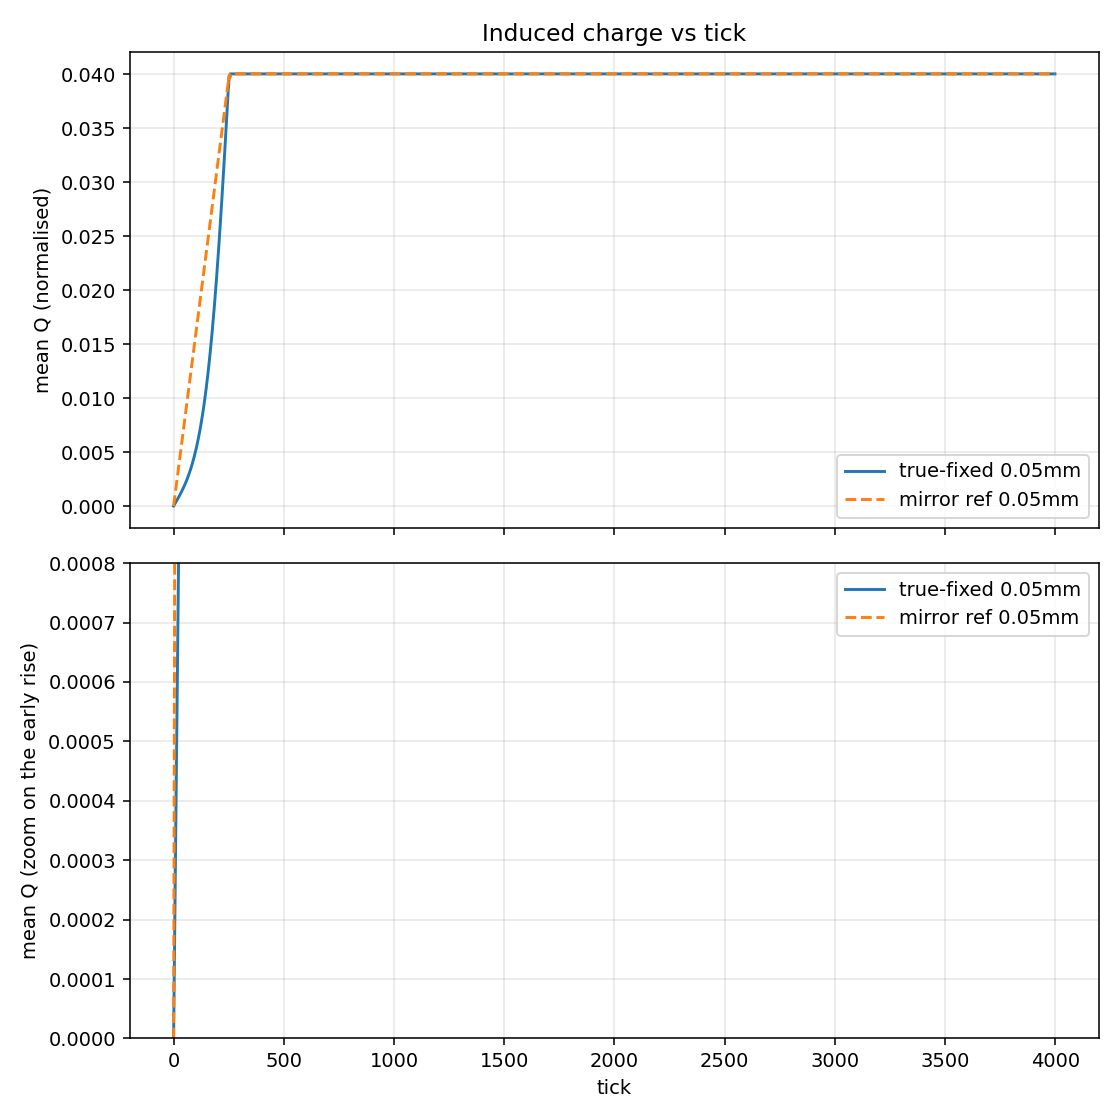
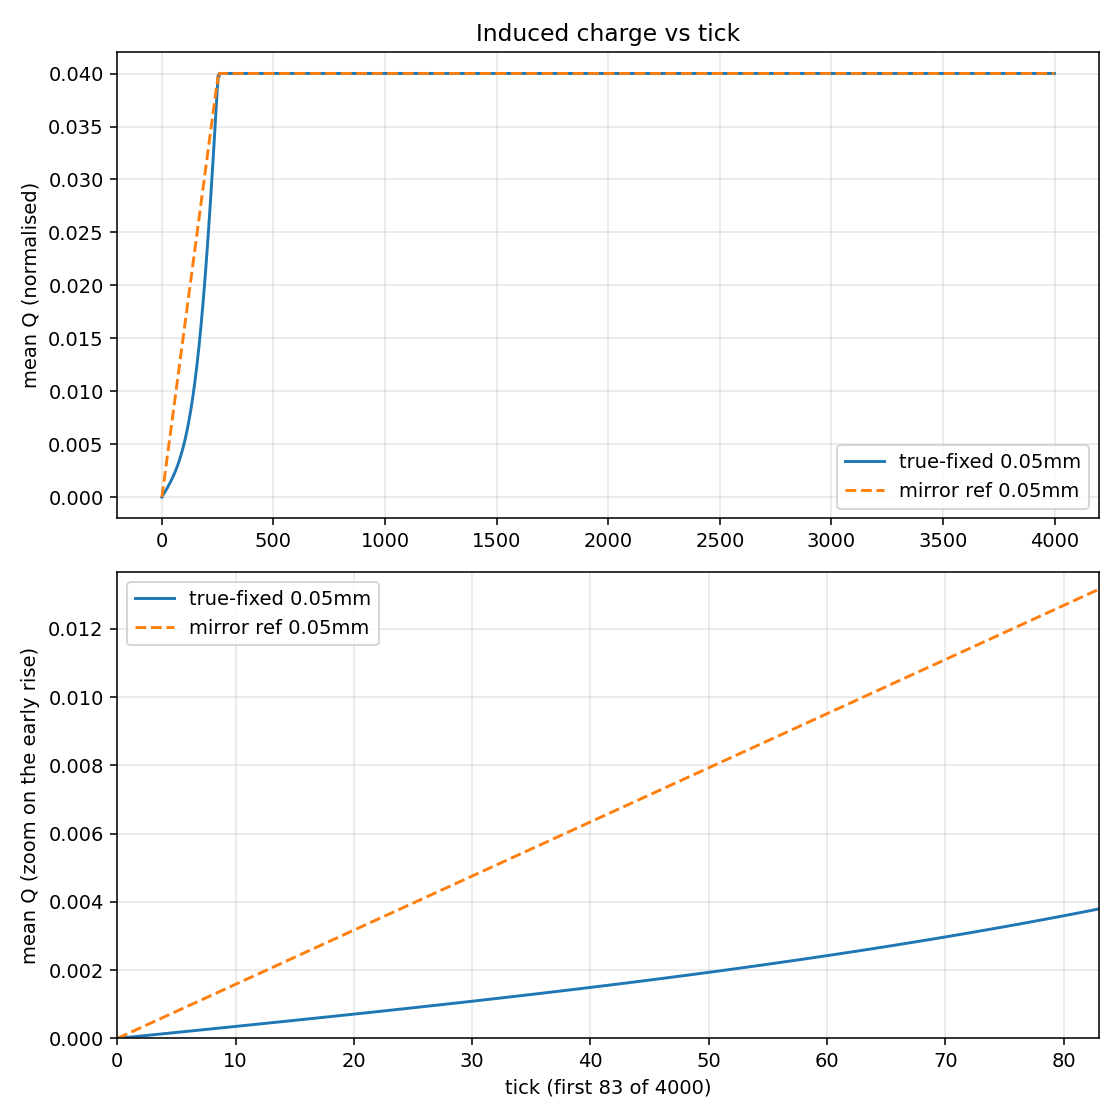
compare_stores: zoom the lower panel in x as well as y
The panel sets only set_ylim, and with sharex=True it still spanned all
4000 ticks, so it collapsed to a vertical line at x=0 and showed nothing
-- exactly the panel meant to demonstrate the early rise.

New zoom_ticks() picks the span from the data: the latest tick at which
either mean curve is still below 5% of its final value, widened 1.6x.
sharex is dropped, since the whole purpose of the lower panel is a
different x range from the upper one.  Both committed validation plots
regenerated; the 0.1mm pair now spans 81 of 4000 ticks and shows the
mirror reference rising linearly from tick 0 while the true-fixed run
starts flat.

diff --git a/pochoir_Analysis/compare_stores.py b/pochoir_Analysis/compare_stores.py
@@ -198,11 +198,35 @@ def report(label, path, charge, endpoints, paths, zlist):
     print()
 
 
+def zoom_ticks(means, frac=0.05, pad=1.6, minimum=20):
+    '''
+    Return how many leading ticks the zoom panel should span.
+
+    The interesting part of Q(t) is the leading edge, which occupies a
+    small fraction of the tick axis; the panel is useless if it spans
+    the whole run.  Take the latest tick at which either curve is still
+    below `frac` of its own final value, widen it a little so the rise
+    itself is visible rather than clipped at the panel edge, and never
+    return less than `minimum` ticks.
+    '''
+    nticks = max(len(m) for m in means)
+    reach = [minimum]
+    for m in means:
+        final = m[-1]
+        if final == 0.0:
+            continue
+        above = numpy.nonzero(m >= frac * final)[0]
+        reach.append(int(above[0]) if above.size else nticks)
+    return int(min(nticks, max(reach) * pad))
+
+
 def plot(outfile, new, ref, new_label, ref_label):
     '''
     Write an overlaid mean-Q(t) plot of the two stores.
     '''
-    fig, (ax, axz) = plt.subplots(2, 1, figsize=(8, 8), sharex=True)
+    # NOT sharex: the lower panel exists precisely to show a different
+    # (much shorter) tick range than the upper one.
+    fig, (ax, axz) = plt.subplots(2, 1, figsize=(8, 8))
 
     for charge, label, style in ((new, new_label, '-'), (ref, ref_label, '--')):
         mean = charge.mean(axis=0)
@@ -214,12 +238,17 @@ def plot(outfile, new, ref, new_label, ref_label):
     ax.legend()
     ax.grid(True, alpha=0.3)
 
-    # The whole point of the comparison lives in the first few percent,
-    # where a reflecting weighting-field wall makes Q rise from tick 0.
+    # The whole point of the comparison lives in the first few percent of
+    # the drift, where a reflecting weighting-field wall makes Q rise
+    # early.  Zoom in BOTH axes: with the full 4000-tick x range the
+    # panel collapses to a vertical line at x=0 and shows nothing.
+    means = [new.mean(axis=0), ref.mean(axis=0)]
+    nzoom = zoom_ticks(means)
+    axz.set_xlim(0, nzoom)
     axz.set_ylabel('mean Q (zoom on the early rise)')
-    axz.set_xlabel('tick')
-    both = numpy.concatenate([new.mean(axis=0), ref.mean(axis=0)])
-    axz.set_ylim(0, max(1e-12, 0.02 * both.max()))
+    axz.set_xlabel(f'tick (first {nzoom} of {new.shape[1]})')
+    head = numpy.concatenate([m[:nzoom] for m in means])
+    axz.set_ylim(0, max(1e-12, 1.05 * head.max()))
     axz.legend()
     axz.grid(True, alpha=0.3)
 
